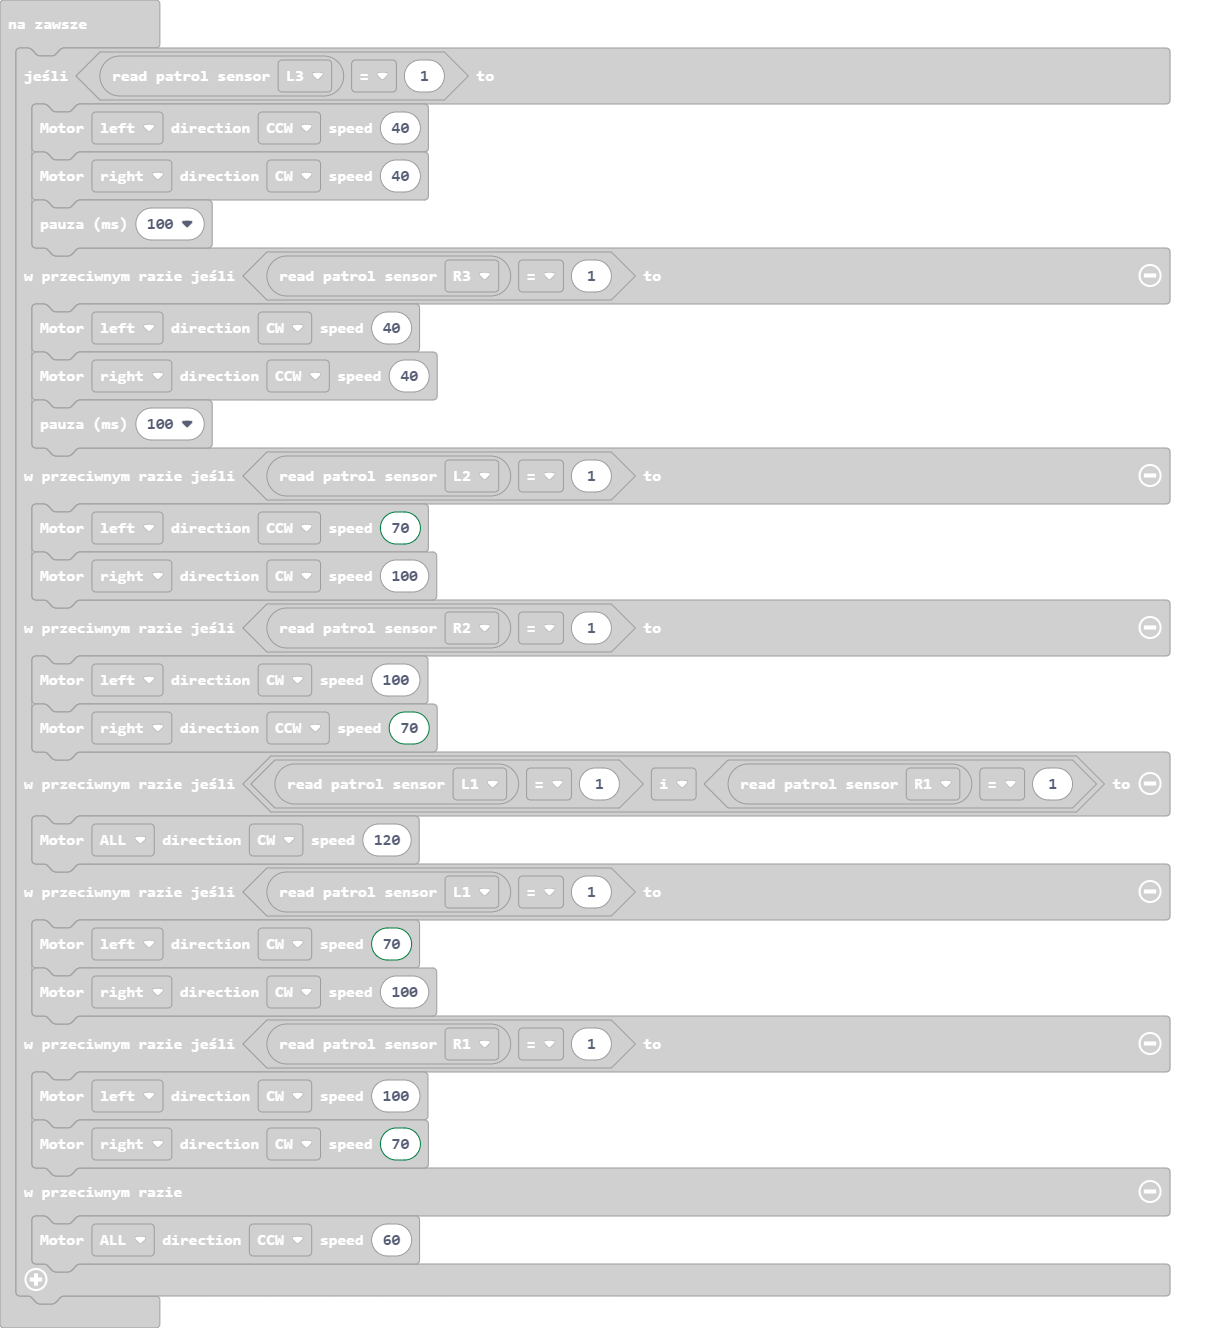
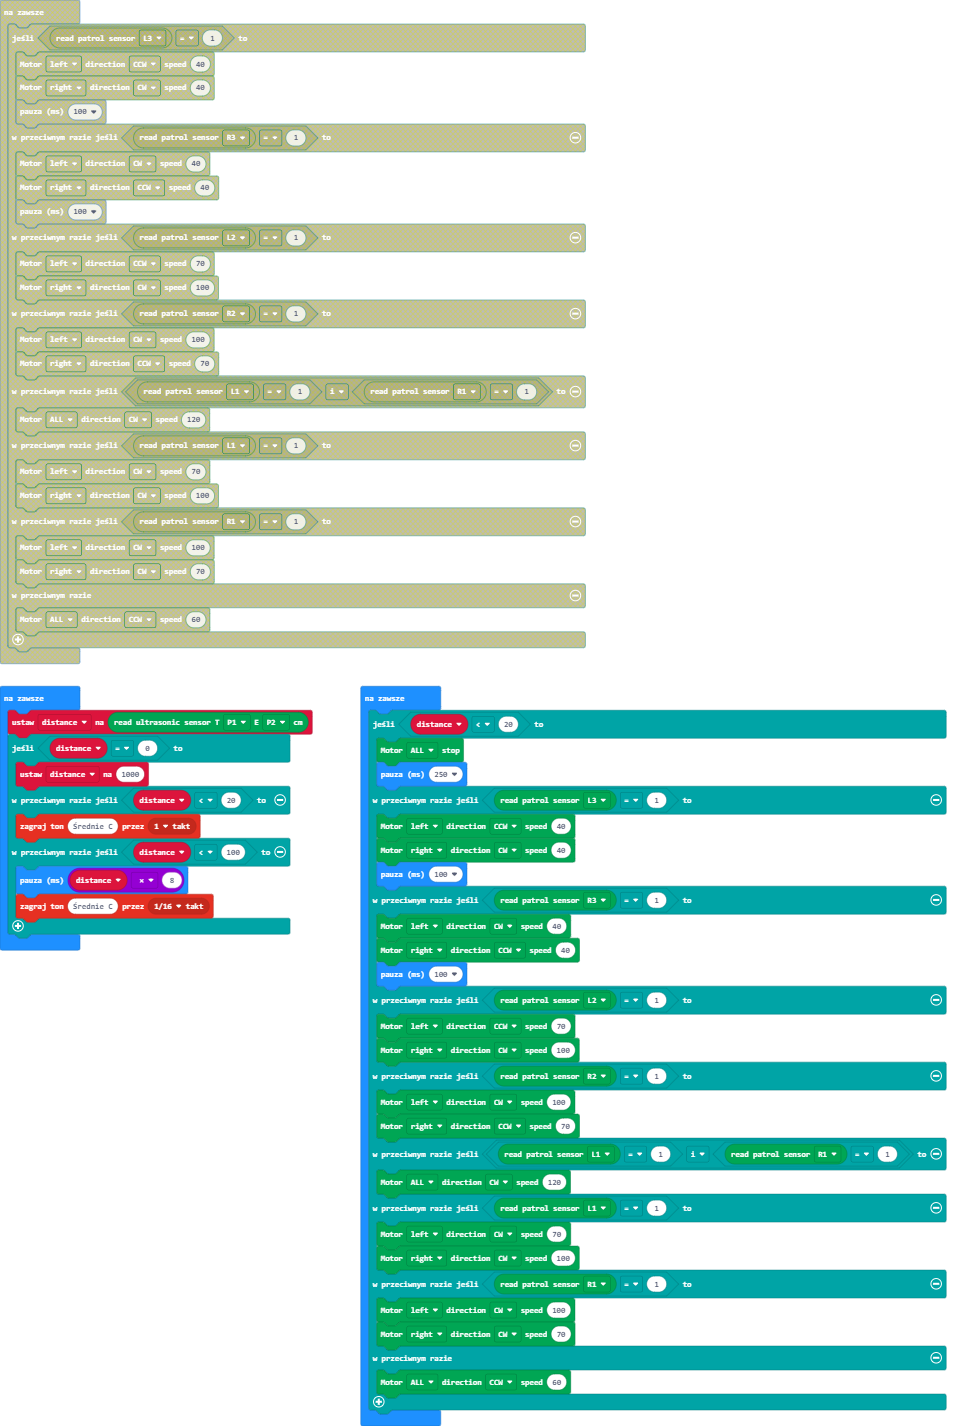
parking sensor + automatic emergency braking system

diff --git a/main.ts b/main.ts
@@ -1,7 +1,22 @@
+let distance = 0
 DFRobotMaqueenPluss.I2CInit()
 DFRobotMaqueenPluss.PID(PID.OFF)
 basic.forever(function () {
-    if (DFRobotMaqueenPluss.readPatrol(Patrol.L3) == 1) {
+    distance = DFRobotMaqueenPluss.ultraSonic(PIN.P1, PIN.P2)
+    if (distance == 0) {
+        distance = 1000
+    } else if (distance < 20) {
+        music.playTone(262, music.beat(BeatFraction.Whole))
+    } else if (distance < 100) {
+        basic.pause(distance * 8)
+        music.playTone(262, music.beat(BeatFraction.Sixteenth))
+    }
+})
+basic.forever(function () {
+    if (distance < 20) {
+        DFRobotMaqueenPluss.mototStop(Motors.ALL)
+        basic.pause(250)
+    } else if (DFRobotMaqueenPluss.readPatrol(Patrol.L3) == 1) {
         DFRobotMaqueenPluss.mototRun(Motors.M1, Dir.CCW, 40)
         DFRobotMaqueenPluss.mototRun(Motors.M2, Dir.CW, 40)
         basic.pause(100)
